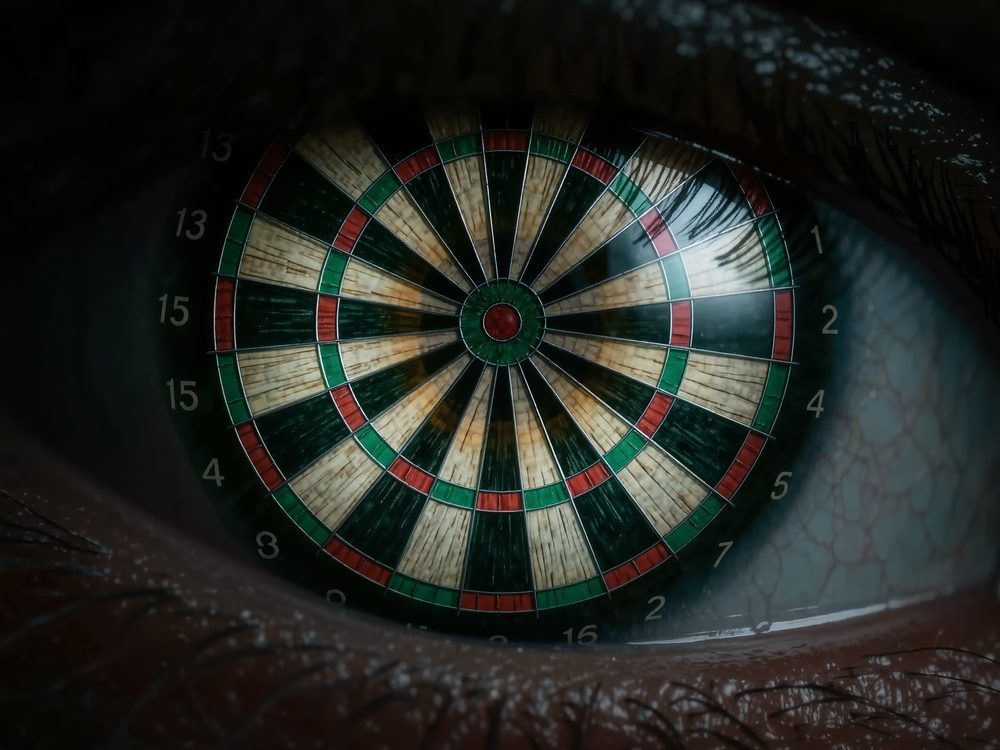
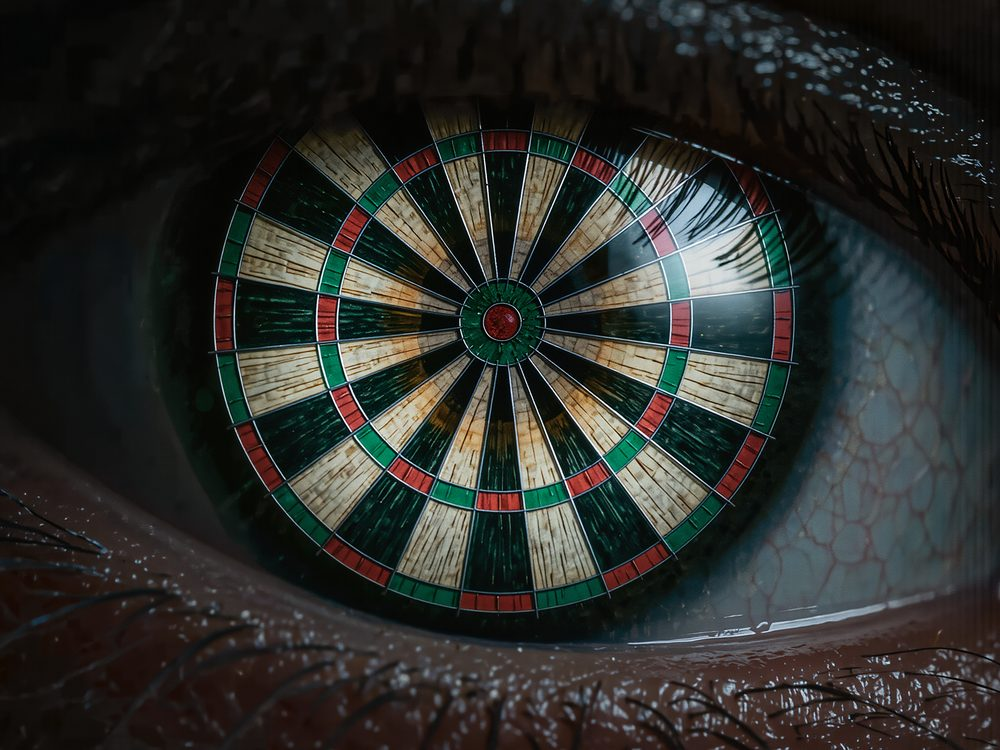
Menu: oko z tarczą bez liczb wokół (2026.10.31b)
Claude-Session: https://claude.ai/code/session_01SfKBES4wEecTQTnpsfYqQA

diff --git a/oko-tarczy.html b/oko-tarczy.html
@@ -4815,7 +4815,7 @@ function learnPoint(d, trueTip) {
    Every dart seen by the camera keeps a crop of the picture before and after the throw.
    When the turn ends, the crop goes to IndexedDB with the final score, the point the player
    tapped (when corrected) and the geometry. Exported as one ZIP to train the tip model. */
-const APP_VERSION = '2026.10.31a';
+const APP_VERSION = '2026.10.31b';
 $('#menu-title').textContent = 'Menu · wersja ' + APP_VERSION;
 const DS = {
   p: null,

diff --git a/CLAUDE.md b/CLAUDE.md
@@ -103,7 +103,7 @@ Rozmawiamy po polsku, prosto, bez żargonu. Użytkownik testuje na prawdziwej ta
 ## Menu główne (2026.10.30b)
 - Piotr: po „Gotowe, gramy” aplikacja od razu liczyła, czy grał, czy nie. Nowy ekran `scr-home` (`renderHome`): Kontynuuj grę (gdy gra ma rzuty i nie jest skończona), Nowa gra, Statystyki, Kalibracja kamery, Ustawienia wykrywania, Licz ręcznie, Instrukcja.
 - Start aplikacji: menu główne, gdy jest zapisana kalibracja (`store` `cal`), inaczej instrukcja. Kalibracja z menu albo z instrukcji kończy się w menu (`S.afterCal = 'home'`, przycisk „Gotowe”); kalibracja z gry albo przed grą (`playFromHome`) wchodzi do gry (`enterGame`: nowe `ref`, „Wyjmij lotki”).
-- Wygląd: u góry zdjęcie oka z tarczą jako tęczówką (`grafika/oko.jpg`, wygenerowane przez Piotra w KlingAI, przycięte bez znaku wodnego, 1000×750, ok. 100 kB, brzegi rozmyte maską). Gdy plik się nie wczyta: rysowane oko (pomysł Piotra; `eyeSvg` + `boardG`, prawdziwa kolejność pól, oko mruga i rozgląda się, wyłączone przy `prefers-reduced-motion`), karta „Kontynuuj grę”, szybki start (501, Cricket, Dookoła, Więcej → okno „Nowa gra” z wybranym trybem), kafelki narzędzi z ikonami. Klasy kart `q-*` (bo `.cr` jest już zajęte przez tabelę Cricketa).
+- Wygląd: u góry zdjęcie oka z tarczą jako tęczówką (`grafika/oko.jpg`, wygenerowane przez Piotra w KlingAI, przycięte bez znaku wodnego, 1000×750, ok. 130 kB, brzegi rozmyte maską; od 2026.10.31b wersja bez liczb wokół tarczy). Gdy plik się nie wczyta: rysowane oko (pomysł Piotra; `eyeSvg` + `boardG`, prawdziwa kolejność pól, oko mruga i rozgląda się, wyłączone przy `prefers-reduced-motion`), karta „Kontynuuj grę”, szybki start (501, Cricket, Dookoła, Więcej → okno „Nowa gra” z wybranym trybem), kafelki narzędzi z ikonami. Klasy kart `q-*` (bo `.cr` jest już zajęte przez tabelę Cricketa).
 - W menu kamera zostaje włączona, ale nic nie jest przetwarzane ani rysowane (pętla działa tylko w `cal`/`game`). W grze Menu, „Menu główne (przerwa w liczeniu)”.
 - Playwright (scratchpad `pw_home.js`, `pw_home2.js`): w menu licznik klatek detektora stoi, przejścia menu/gra/kalibracja działają, Kontynuuj wraca do gry ręcznej.
 
